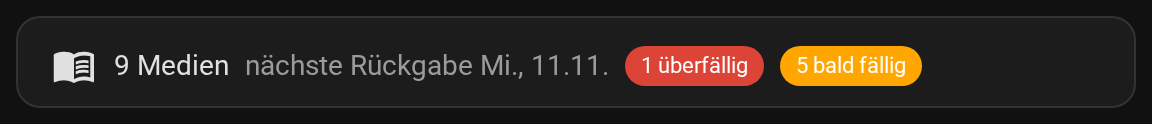
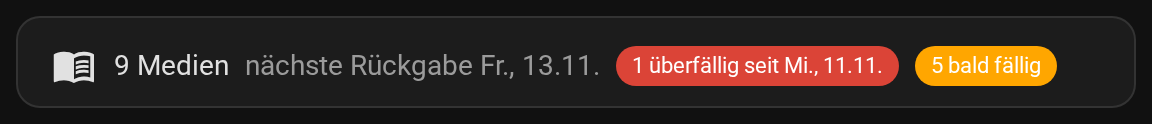
fix(card): show next future due date in summary
Overdue items now carry their date in the badge.

Changed region(s): [[0.4062, 0.3629, 0.9375, 0.7016]]

diff --git a/custom_components/findus_opac/frontend/findus-opac-card.js b/custom_components/findus_opac/frontend/findus-opac-card.js
@@ -31,6 +31,7 @@ const TEXT = {
     loans: "Ausleihen",
     none: "Keine Ausleihen – alles zurückgegeben.",
     overdue: (n) => `${n} überfällig`,
+    overdueSince: (n, d) => `${n} überfällig seit ${d}`,
     today: "heute fällig",
     tomorrow: "morgen fällig",
     inDays: (n) => `in ${n} Tagen`,
@@ -79,6 +80,7 @@ const TEXT = {
     loans: "Loans",
     none: "No loans – everything returned.",
     overdue: (n) => `${n} overdue`,
+    overdueSince: (n, d) => `${n} overdue since ${d}`,
     today: "due today",
     tomorrow: "due tomorrow",
     inDays: (n) => `in ${n} days`,
@@ -1177,9 +1179,12 @@ class FindusOpacChipCard extends FindusOpacCompactCard {
       return;
     }
     const items = present.flatMap((a) => a.items);
-    const overdue = items.filter((i) => i.status === "overdue").length;
+    const late = items.filter((i) => i.status === "overdue");
+    const overdue = late.length;
+    const since = late.map((i) => i.due).filter(Boolean).sort()[0];
     const soon = items.filter((i) => i.status === "today" || i.status === "soon").length;
-    const next = items.map((i) => i.due).filter(Boolean).sort()[0];
+    // Overdue items get their own badge with their date; "next due" looks ahead.
+    const next = items.filter((i) => i.status !== "overdue").map((i) => i.due).filter(Boolean).sort()[0];
 
     this.shadowRoot.innerHTML = `<ha-card>
         ${warns}
@@ -1188,7 +1193,7 @@ class FindusOpacChipCard extends FindusOpacCompactCard {
           <ha-icon icon="${ICONS.book}"></ha-icon>
           <span class="count">${esc(t.items(items.length))}</span>
           ${next ? `<span class="next">${esc(`${t.next} ${formatDate(locale, next)}`)}</span>` : ""}
-          ${overdue ? `<span class="badge bad">${esc(t.overdue(overdue))}</span>` : ""}
+          ${overdue ? `<span class="badge bad">${esc(since ? t.overdueSince(overdue, formatDate(locale, since)) : t.overdue(overdue))}</span>` : ""}
           ${soon ? `<span class="badge soon">${esc(t.dueSoonBadge(soon))}</span>` : ""}
         </div>
       </ha-card>${STYLE}${COMPACT_STYLE}`;
